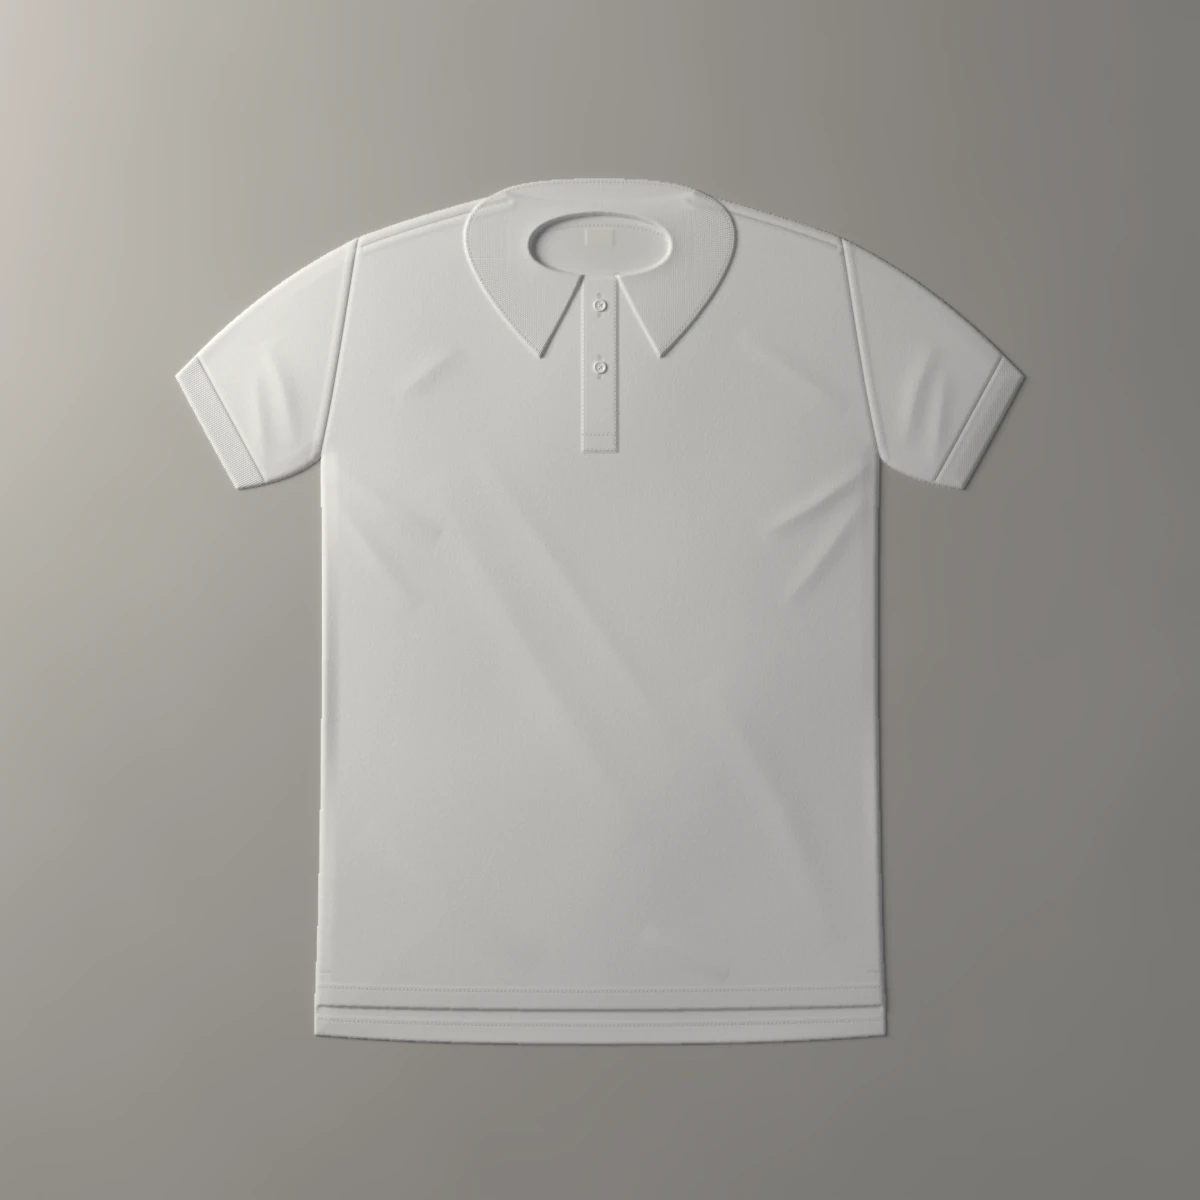
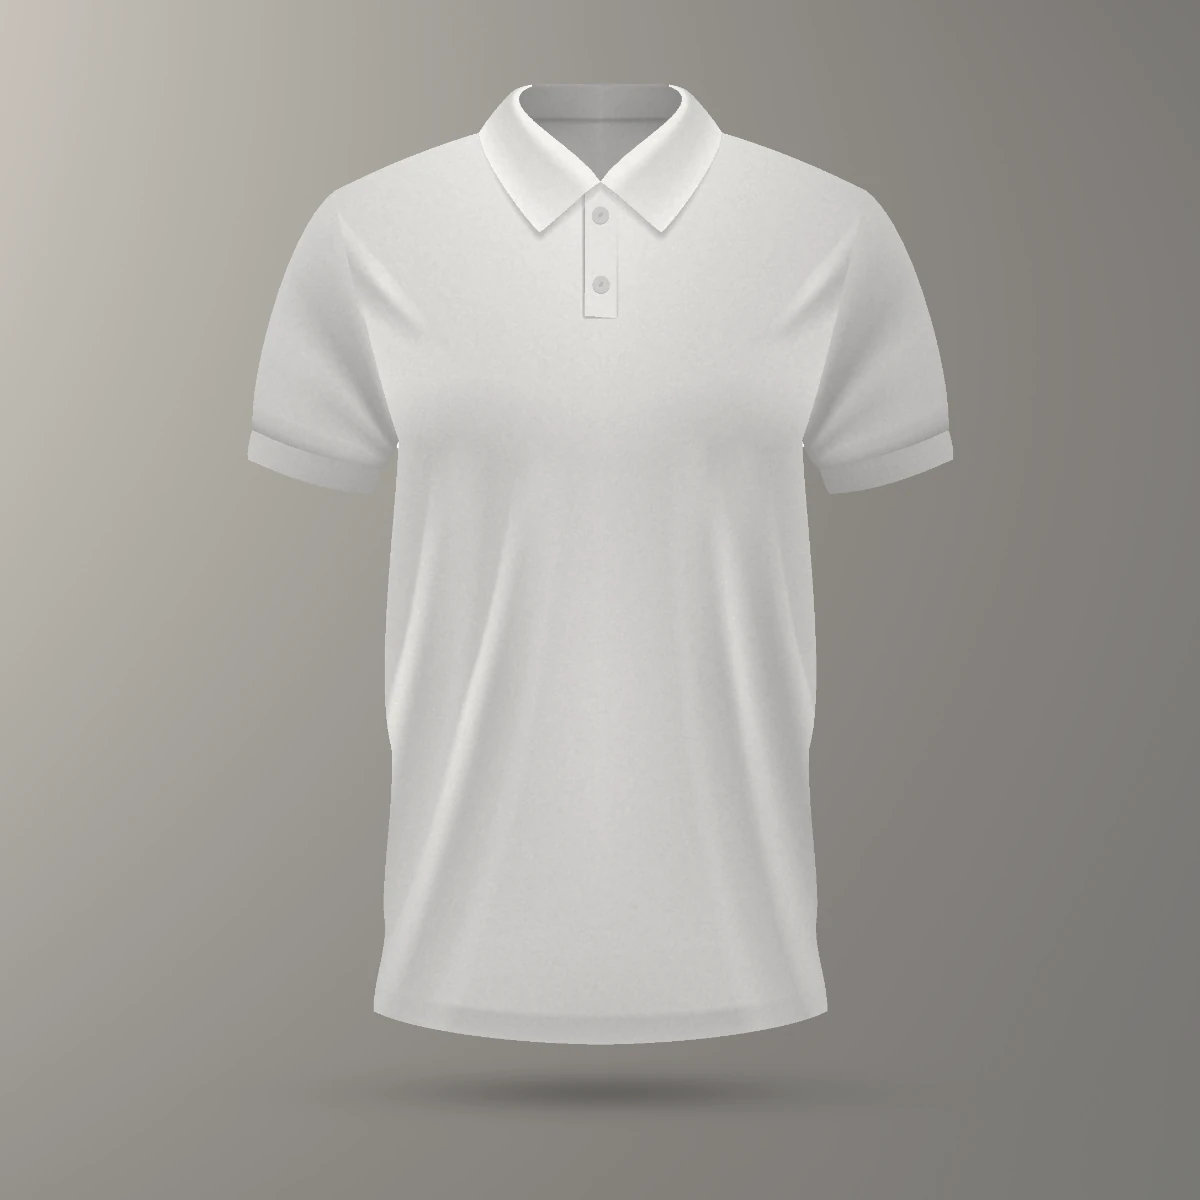
Short-sleeve polo from the customer's 3D polo artwork
- The polo front is rendered from the supplied EPS (Ghostscript), cut from its white
  background and run through from_photo.py: our backdrop, a soft floor shadow,
  neutral colour, fabric grain and slightly deeper folds; print area on the chest
  with the placket kept clear
- from_photo.py gains drop shadow, neutral, grain, exposure and contrast options and
  reads photo.png or photo.jpg
- The 3D short-sleeve polo scene is retired; the raw artwork stays out of the repo

Claude-Session: https://claude.ai/code/session_01SuPe5Mf1Zwd5UuURBBNw65

Changed region(s): [[0.1233, 0.0617, 0.8633, 0.925], [0.37, 0.555, 0.4008, 0.6783], [0.4008, 0.5242, 0.4317, 0.555]]

diff --git a/tools/mockups/from_photo.py b/tools/mockups/from_photo.py
@@ -1,7 +1,8 @@
 """Turn a real (or stock) product photo into a studio-ready mockup in assets/mockups/<id>/.
 
 The photo is a blank, light-coloured product (no logo) cut out from its background
-(photos/<id>/photo.jpg + photos/<id>/alpha.png, e.g. made with `rembg`). This script:
+(photos/<id>/photo.jpg|png + photos/<id>/alpha.png, e.g. made with `rembg`, or straight from
+a vector file's shapes). This script:
 
   * puts it on the same warm paper backdrop as the rendered shots, carrying its own
     floor shadow over, and relights it a little from the left like the rest
@@ -43,6 +44,19 @@ PHOTOS = {
         'presets': {'center': {'u': 0.5, 'v': 0.76, 'w': 0.46},
                     'chest': {'u': 0.762, 'v': 0.842, 'w': 0.27},
                     'big': {'u': 0.5, 'v': 0.68, 'w': 0.68}},
+    },
+    # vector illustration (Vecteezy, 3D polo white t-shirt), front view rendered from the EPS
+    'polo': {
+        'height': 0.80, 'top': 0.07, 'neutral': True, 'grain': 0.018, 'exposure': 0.95, 'contrast': 1.35,
+        'drop': {'gap': 0.05, 'rx': 0.34, 'ry': 0.022, 'strength': 0.5},
+        'print': [(205, 225), (450, 125), (555, 300), (670, 210), (780, 300), (890, 125), (1140, 225),
+                  (1045, 690), (1062, 1700), (270, 1700), (295, 690)],
+        'cut': [([(670, 200), (670, 462)], 74)],                          # placket and buttons
+        'uv': {'cx': 670, 'bottom': 1700, 'W': 784, 'H': 1500, 'R': 520, 'displace': 4.0},
+        'default': {'u': 0.748, 'v': 0.853, 'w': 0.17},
+        'presets': {'chest': {'u': 0.748, 'v': 0.853, 'w': 0.17},
+                    'center': {'u': 0.5, 'v': 0.667, 'w': 0.42},
+                    'big': {'u': 0.5, 'v': 0.6, 'w': 0.62}},
     },
 }
 
@@ -88,7 +102,9 @@ def backdrop():
 
 
 def build(pid, cfg):
-    src = np.array(Image.open(os.path.join(HERE, 'photos', pid, 'photo.jpg')).convert('RGB'))
+    folder = os.path.join(HERE, 'photos', pid)
+    name = next(f for f in sorted(os.listdir(folder)) if f.startswith('photo.'))
+    src = np.array(Image.open(os.path.join(folder, name)).convert('RGB'))
     alpha = np.array(Image.open(os.path.join(HERE, 'photos', pid, 'alpha.png')).convert('L')).astype(np.float32) / 255
     sh, sw = alpha.shape
     lin = to_lin(src)
@@ -127,13 +143,33 @@ def build(pid, cfg):
     P = np.clip(place(lin_prod, fill=1.0), 0, 1)
     SH = np.clip(place(shadow, fill=1.0), 0, 1)
     bd = backdrop()
+    yy, xx = np.mgrid[0:SIZE, 0:SIZE]
+    if 'drop' in cfg:
+        # artwork with no floor shadow of its own: a soft one under the hem, like the hoodie's
+        fy, fx = np.nonzero(A > 0.5)
+        w_, h_ = fx.max() - fx.min(), fy.max() - fy.min()
+        dr = cfg['drop']
+        cx_, cy_ = (fx.min() + fx.max()) / 2, fy.max() + dr['gap'] * h_
+        blob = np.exp(-(((xx - cx_) / (dr['rx'] * w_)) ** 2 + ((yy - cy_) / (dr['ry'] * h_)) ** 2) * 1.6)
+        SH = SH * (1 - dr['strength'] * ndimage.gaussian_filter(blob, 6))
+    if cfg.get('contrast'):
+        # soft illustration shading: deepen the folds a little so dark colours keep their shape
+        m_ = lum(P)[A > 0.5].mean()
+        P = P * ((np.maximum(lum(P), 1e-4) / m_) ** (cfg['contrast'] - 1))[..., None]
+    if cfg.get('neutral'):
+        # an illustration's colour cast is not the fabric's: keep only the shading
+        P = np.repeat(lum(P)[..., None], 3, -1)
+    if cfg.get('grain'):
+        rng = np.random.default_rng(5)
+        g = ndimage.gaussian_filter(rng.standard_normal((SIZE, SIZE)).astype(np.float32), 0.7)
+        g += 0.5 * ndimage.gaussian_filter(rng.standard_normal((SIZE, SIZE)).astype(np.float32), 2.0)
+        P = P * (1 + cfg['grain'] * g / g.std())[..., None]
 
     # relight: the studio key light comes from the left, and the room is warm
-    yy, xx = np.mgrid[0:SIZE, 0:SIZE]
     side = (lum(bd) / lum(bd).mean()) ** 0.3
     side = ndimage.gaussian_filter(side, 40)
     warm = np.array([1.0, 0.985, 0.955], np.float32)
-    prod = P * (0.86 * side)[..., None] * warm
+    prod = P * (cfg.get('exposure', 0.86) * side)[..., None] * warm
 
     # split into the compositor's passes: prod = ALB * light + sheen
     L0 = lum(prod) / ALB

diff --git a/tools/mockups/flat_garments.py b/tools/mockups/flat_garments.py
@@ -1,4 +1,4 @@
-"""Polo (short / long sleeve), built with the flat-lay height field (flatlay.py).
+"""Long-sleeve polo, built with the flat-lay height field (flatlay.py).
 
 Coordinates are metres on the table, +y towards the collar, viewed from above.
 """
@@ -284,6 +284,5 @@ def build_polo(long_sleeve=False):
 
 
 SCENES = {
-    'polo': lambda: build_polo(False),
     'polo_ls': lambda: build_polo(True),
-}   # the hoodie now comes from a real photo: see from_photo.py
+}   # the short-sleeve polo and the hoodie now come from real artwork: see from_photo.py

diff --git a/tools/mockups/cards.py b/tools/mockups/cards.py
@@ -54,7 +54,7 @@ CARDS = {
 }
 
 # how much of the shot the card shows (products that fill the frame need it all)
-CARD_CROP = {'cap': 1.0, 'hoodie': 0.93, 'polo_ls': 0.92}
+CARD_CROP = {'cap': 1.0, 'hoodie': 0.93, 'polo': 0.93, 'polo_ls': 0.92}
 
 # hero slides, in the order index.html lists them
 HERO = [

diff --git a/README.md b/README.md
@@ -66,11 +66,11 @@ assets/mockups/       صور المنتجات وبياناتها
 tools/mockups/        سكريبتات Blender اللي بتعمل الصور
   products.py         تيشيرت، مج، كشكول، قلم، كروت، علم...
   flatlay.py          طريقة بناء الهدوم: قماش بحواف طرية، خياطات، غرز، ريب، وكسرات
-  flat_garments.py    بولو نص كم وكم طويل
+  flat_garments.py    بولو كم طويل
   cap.py              الكاب (٦ أجزاء، حرف مقوّس متخيّط، عيون تهوية وزرار)
   accessories.py      شدّاد سوستة، تيكت منسوج، هانج تاج، باتش جلد، مريلة، ماوس باد
   garments.py         أجزاء مشتركة (ريب، زراير) للإكسسوارات
   from_photo.py       بيحوّل صورة منتج حقيقية (من غير لوجو) لموكب للاستوديو: نفس الخلفية والإضاءة، ويتلوّن ويتطبع عليه
-  photos/<id>/        الصور الأصلية: photo.jpg والقصّ بتاعها alpha.png (الهودي حاليًا)
+  photos/<id>/        الصور الأصلية: photo.jpg والقصّ بتاعها alpha.png (الهودي والبولو نص كم حاليًا)
   cards.py            بيحط اللوجو على صور الكروت وكارت الرئيسية (شغّله تاني لو غيّرت اللوجو)
 ```
